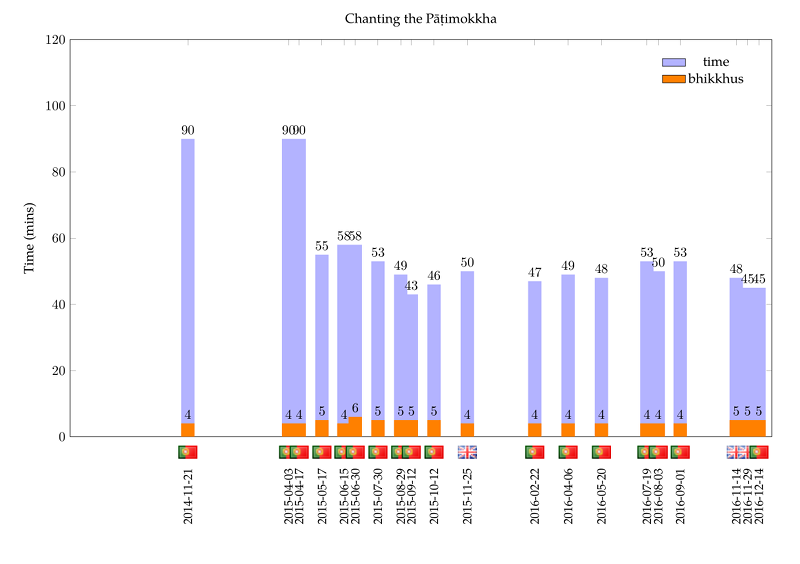
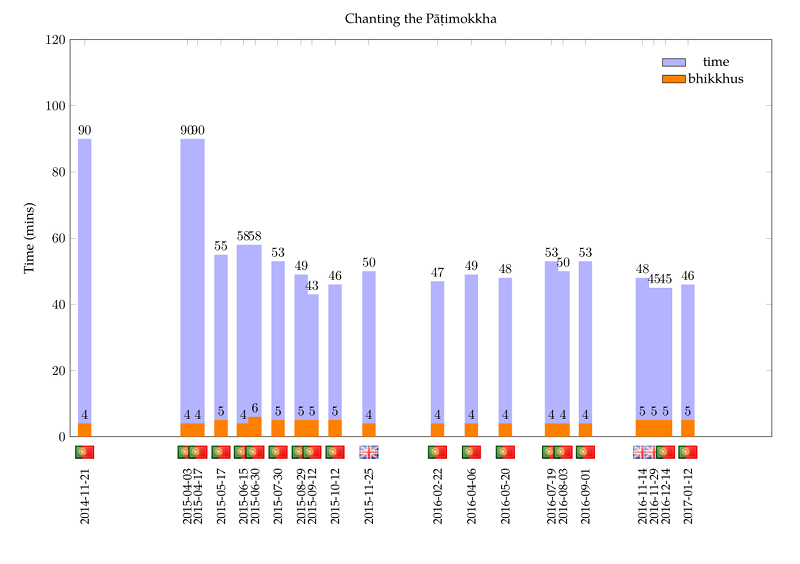
upd

diff --git a/src/patimokkha-chanting-chart.tex b/src/patimokkha-chanting-chart.tex
@@ -54,8 +54,8 @@
     ylabel=Time (mins),
     xtick=data,
     xmin=2014-11-20,
-    xmax=2016-12-31,
-    enlarge x limits={rel=0.2,lower},
+    xmax=2017-05-01,
+    enlarge x limits={rel=0.02,lower},
     xticklabel style={yshift=-20pt,rotate=90,anchor=east,font=\small},
     xticklabel={\year-\month-\day},
     unbounded coords=jump,
@@ -103,6 +103,7 @@
   \node [anchor=south, yshift=-20pt] at (axis cs:2016-11-14,0) {\includegraphics[width=5mm]{gb}};
   \node [anchor=south, yshift=-20pt] at (axis cs:2016-11-29,0) {\includegraphics[width=5mm]{gb}};
   \node [anchor=south, yshift=-20pt] at (axis cs:2016-12-14,0) {\includegraphics[width=5mm]{pt}};
+  \node [anchor=south, yshift=-20pt] at (axis cs:2017-01-12,0) {\includegraphics[width=5mm]{pt}};
 
 \end{axis}
 \end{tikzpicture}
